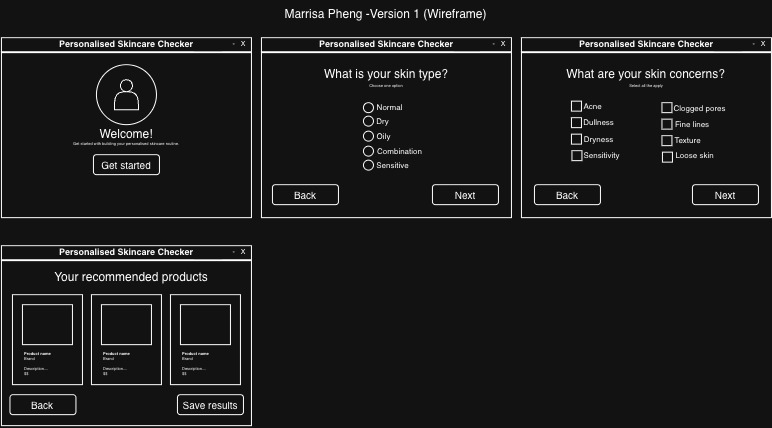
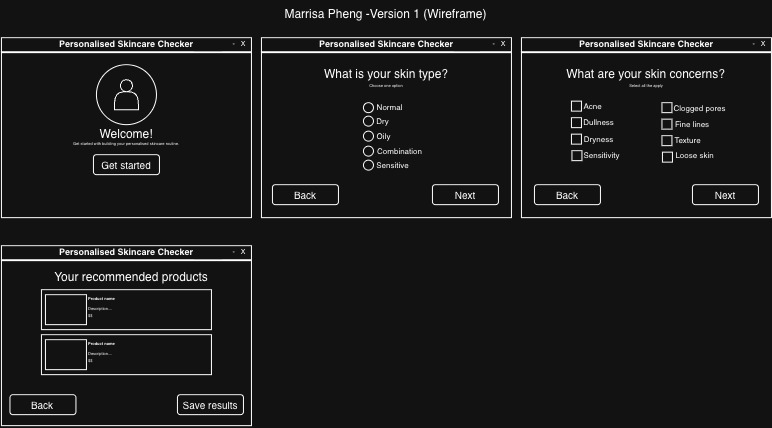
Final Version 1

Changed region(s): [[0.0311, 0.6682, 0.3109, 0.9112]]

diff --git a/Version1_91906.py b/Version1_91906.py
@@ -56,7 +56,7 @@ def validate_skin_concerns(answer):
         return False
     
 def get_recommended_products(selected_skin_type, selected_concerns):
-    # Search through product_database tp find suitable match
+    # Search through product_database to find suitable match
     products = load_products()
     matches = []
 
@@ -70,6 +70,12 @@ def get_recommended_products(selected_skin_type, selected_concerns):
                 
         if skin_type_matches == True and skin_concerns_matches == True:
             matches.append(product)
+        
+        # If no matches are found, the program searches for products that match the skin type only
+        if len(matches) == 0:
+            for product in products:
+                if selected_skin_type in product["suitable_skin_types"]:
+                    matches.append(product)
 
     return matches
 
@@ -146,7 +152,6 @@ def check_skin_type():
     if validate_skin_type(selected_skin_type) == False:
         messagebox.showerror("Error", "Please select a skin type.")
     else:
-        skin_type_options = selected_skin_type
         show_skin_concerns()
 
 # Skin concerns page
@@ -237,7 +242,7 @@ def save_results():
     results_file = open("skincare_results.txt", "w")
     results_file.write("Personalised Skincare Checker Results\n")
     results_file.write("Skin Type: " + selected_skin_type + "\n")
-    results_file.write("Skin concerns: " + ",".join(selected_skin_concerns) + "\n")
+    results_file.write("Skin concerns: " + ", ".join(selected_skin_concerns) + "\n")
 
     results_file.write("Recommended Products:\n")
 
